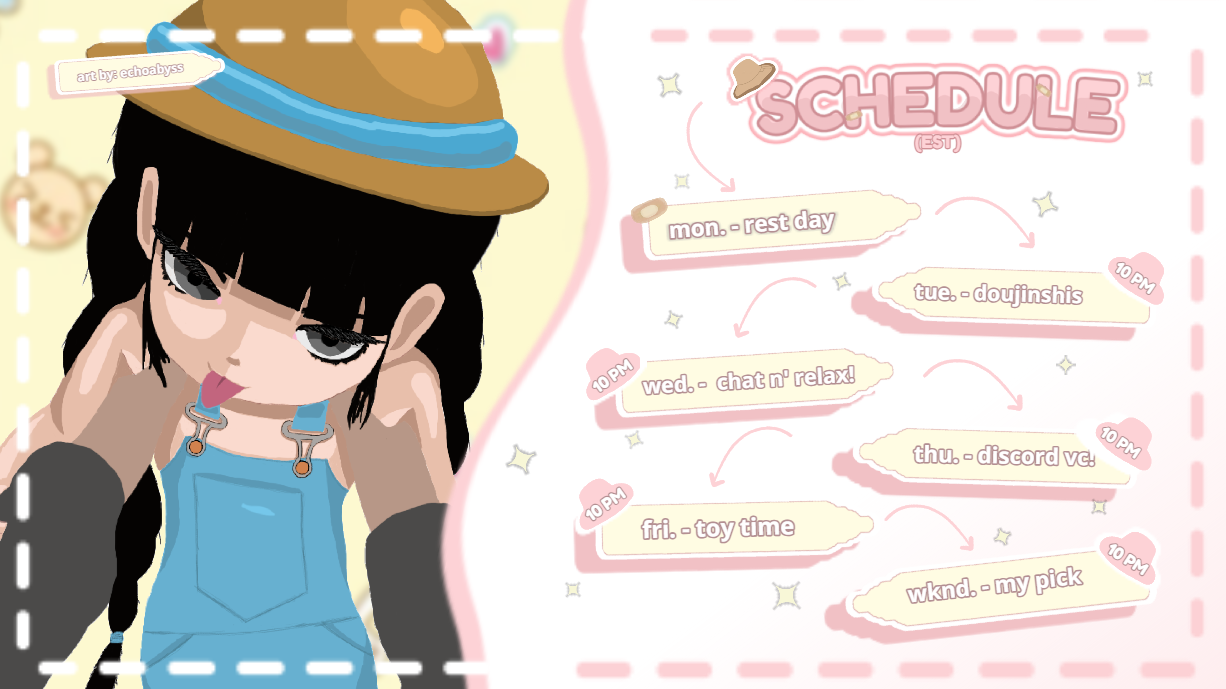
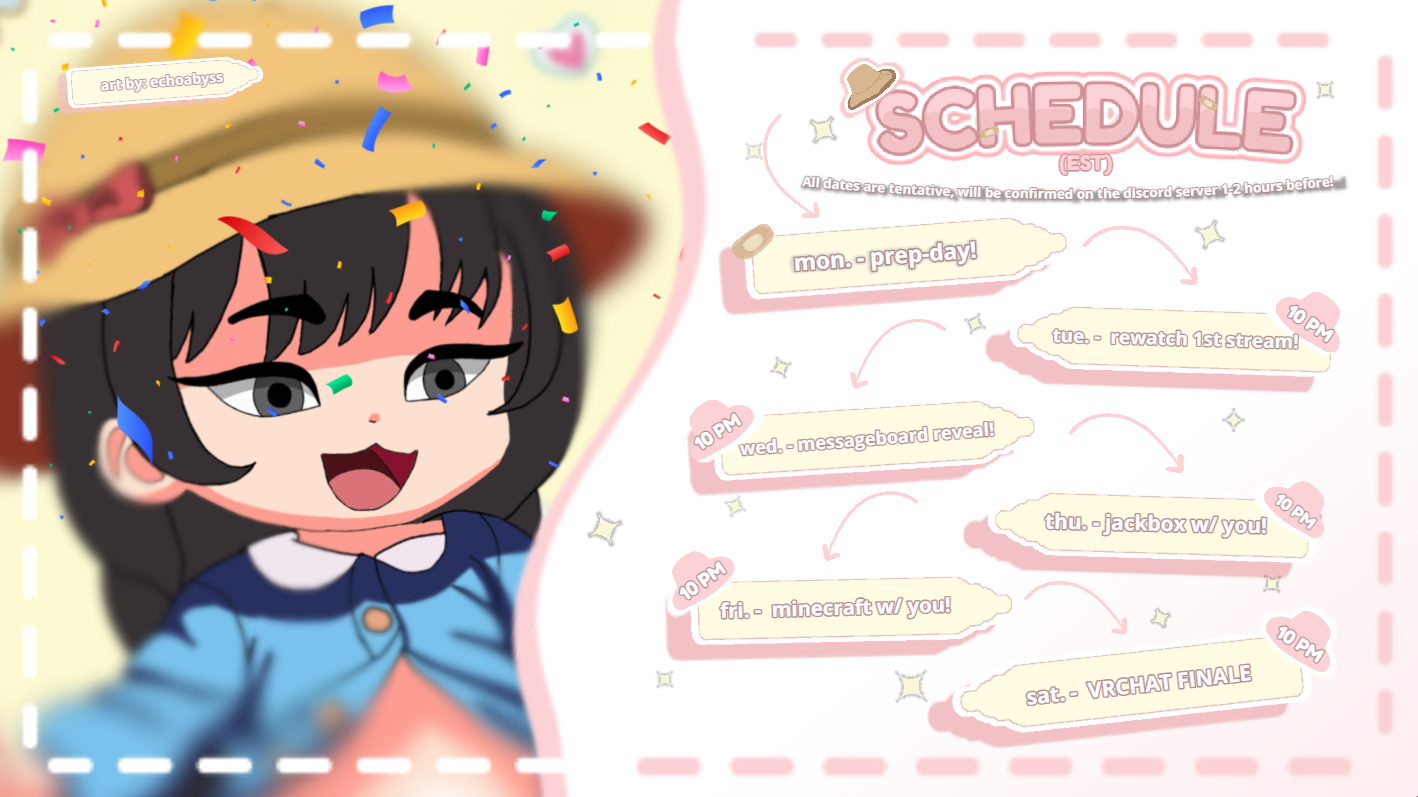
update schedule and remove getusers

diff --git a/meimei.py b/meimei.py
@@ -55,7 +55,7 @@ async def now_live():
 
 @bot.command()
 async def schedule(ctx):
-    await ctx.send(content="Meimei's weekly schedule!", file=discord.File("weeklyTWITTER.png"))
+    await ctx.send(content="Meimei's weekly schedule!", file=discord.File("schedule.png"))
 
 @bot.command()
 async def info(ctx):
@@ -74,7 +74,6 @@ async def info(ctx):
     schedule_file2 = discord.File("schedule.png", filename="schedule2.png")
     embed2.set_image(url="attachment://schedule2.png")
 
-    #await ctx.send(file=schedule_file1, embed=embed1)
     await ctx.send(file=schedule_file2, embed=embed2)
 
 def getAvatarUrl(member):
@@ -154,8 +153,10 @@ async def getusers(ctx, role: discord.Role, role2: discord.Role):
     s2 = set([m.name for m in role2.members])
     print("users in", role.name, "but not", role2.name)
     print(s1.difference(s2))
+    print(len(s1.difference(s2)))
     print("users in", role2.name, "but not", role.name)
     print(s2.difference(s1))
+    print(len(s2.difference(s1)))
 
 if __name__ == "__main__":
     asyncio.run(main())
